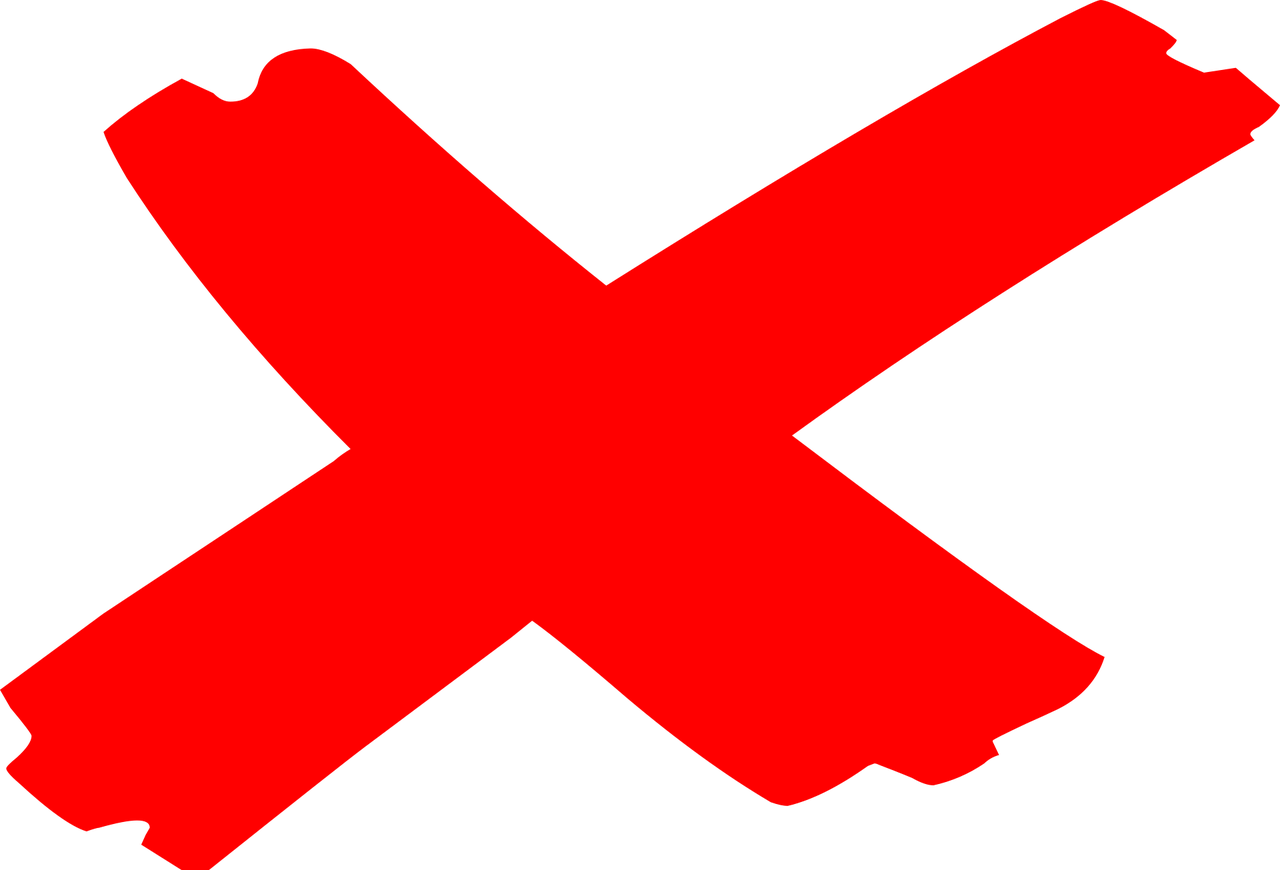
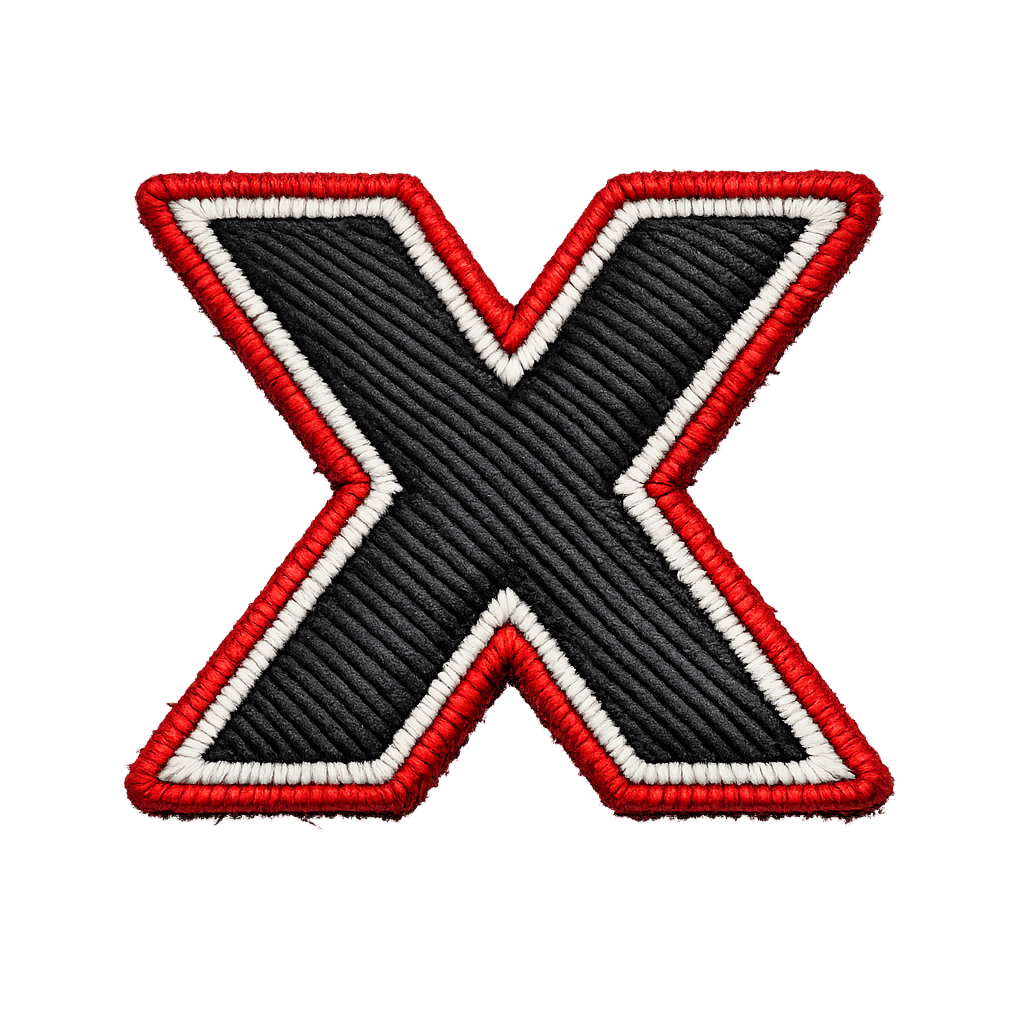
updated patch style

diff --git a/public/assets/css/styles.css b/public/assets/css/styles.css
@@ -2,7 +2,7 @@
 
 body {
   font-family: 'Share Tech', sans-serif;
-  background-color: rgb(165, 200, 199);
+  background-color: rgb(147, 198, 186);
 
 }
 
@@ -36,29 +36,34 @@ main {
 }
 
 .landing a {
-  padding: 15px;
+  padding: 30px 50px;  
   color: white;
   border-radius: 5px;
   border: 2px solid black;
-  background-color: rgb(36 181 230);
   text-decoration: none;
   font-size: 20px;
+  background: url('../images/button.png') center/100% 100% no-repeat;
+  border: none;
+  outline: none;
+  appearance: none;
+  -webkit-appearance: none;
 }
 
 .landing a:hover {
   cursor: pointer;
-  background-color: rgb(138, 199, 220);
 }
 
 #listForm {
   display: flex;
   flex-direction: row;
   align-items: center;
+  margin-left: 20px;
 }
 
 #listInput {
   padding: 10px;
-  border-radius: 5px 0px 0px 5px;
+  border: 2px solid black;
+  border-radius: 5px;
   text-align: center;
   font-family: 'Share Tech', sans-serif;
   background-color: rgb(231, 231, 231);
@@ -66,18 +71,21 @@ main {
 }
 
 #listButton {
-  padding: 10px;
+  margin-left: -10px;
+  padding: 20px 40px;
   color: white;
-  border-left: none;
   border-radius: 0px 5px 5px 0px;
-  background-color: rgb(36 181 230);
   text-align: center;
   font-family: 'Share Tech', sans-serif;
+  background: url('../images/button.png') center/100% 100% no-repeat;
+  border: none;
+  outline: none;
+  appearance: none;
+  -webkit-appearance: none;
 }
 
 #listButton:hover {
   cursor: pointer;
-  background-color: rgb(138, 199, 220);
 }
 
 #listContainer {
@@ -100,7 +108,6 @@ main {
 }
 
 #listContainer img {
-  height: 20px;
+  height: 40px;
   cursor: pointer;
-  margin-left: 10px;
 }